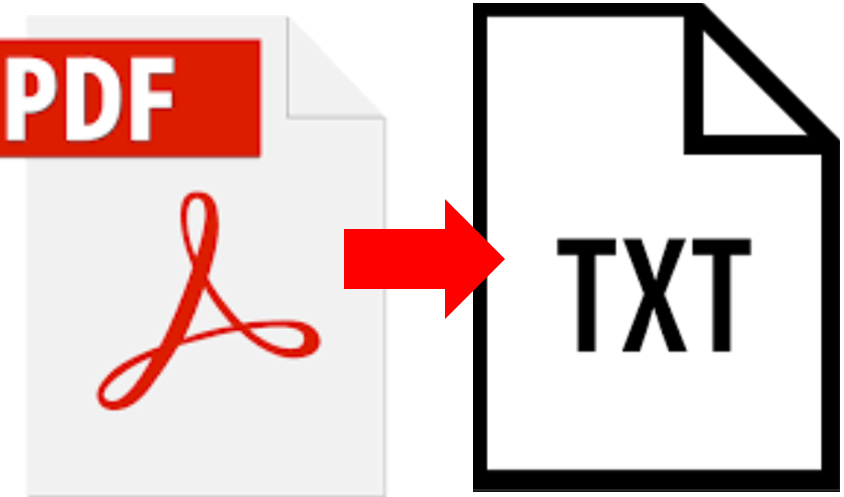
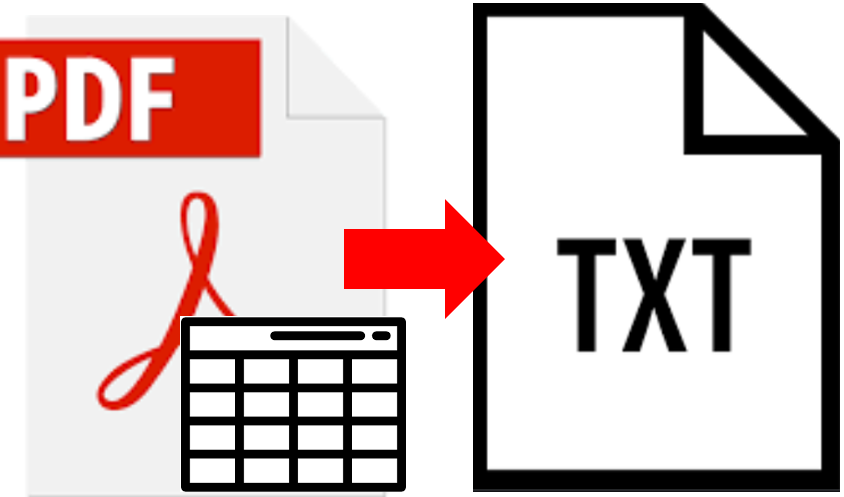
pdf2table commit

Changed region(s): [[0.2156, 0.6338, 0.4929, 0.996]]

diff --git a/argoslabs/pdf/pdf2table/__init__.py b/argoslabs/pdf/pdf2table/__init__.py
@@ -1,0 +1,140 @@
+#!/usr/bin/env python
+# coding=utf8
+"""
+====================================
+ :mod:`argoslabs.data.pdf2txt`
+====================================
+.. moduleauthor:: Kyobong An <akb0930e@argos-labs.com>
+.. note:: ARGOS-LABS License
+
+Description
+===========
+ARGOS LABS PDF Conversion(pdf -> txt) plugin
+"""
+# Authors
+# ===========
+#
+# * Kyobong An
+#
+# --------
+#
+#  * [2021/07/28]
+#     - starting
+
+################################################################################
+import os
+import sys
+import pdfplumber
+# import pandas
+from alabs.common.util.vvargs import ModuleContext, func_log, \
+    ArgsError, ArgsExit, get_icon_path
+
+
+################################################################################
+class TableError(Exception):
+    pass
+
+
+################################################################################
+@func_log
+def pdf2doc(mcxt, argspec):
+    mcxt.logger.info('>>>starting...')
+    if argspec.table:
+        pdffile = argspec.table
+    else:
+        pdffile = argspec.text
+    try:
+        text = str()
+        with pdfplumber.open(pdffile) as pdf, open(argspec.output, 'w') as txt:
+            pages = pdf.pages
+            if argspec.text:
+                for page in pages:
+                    text += page.extract_text()
+
+                txt.write(text)
+            else:
+                count = 0
+                for page in pages:
+                    tables = page.extract_tables(table_settings=
+                                                 {"vertical_strategy": argspec.vertical,
+                                                  "horizontal_strategy": argspec.horizontal,
+                                                  })
+                    for table in tables:
+                        for r_table in table:
+                            txt.write(',\t'.join(i if i else '' for i in r_table) + '\n')
+                            count += 1
+                            # print(','.join(r_table))
+                        txt.write('\n'*4)
+                if count == 0:
+                    msg = ('The table is not included in "%s"' % os.path.basename(argspec.table))
+                    raise TableError(msg)
+            pdf.close()
+            txt.close()
+
+        print(os.path.abspath(argspec.output), end='')
+        return 0
+    except TableError as err:
+        msg = str(err)
+        mcxt.logger.error(msg)
+        sys.stderr.write('%s%s' % (msg, os.linesep))
+        return 1
+    except Exception as err:
+        msg = str(err)
+        mcxt.logger.error(msg)
+        sys.stderr.write('%s%s' % (msg, os.linesep))
+        return 9
+    finally:
+        sys.stdout.flush()
+        mcxt.logger.info('>>>end...')
+
+
+################################################################################
+def _main(*args):
+    with ModuleContext(
+            owner='ARGOS-LABS',
+            group='2',
+            version='1.0',
+            platform=['windows', 'darwin', 'linux'],
+            output_type='text',
+            display_name='PDF2Table',
+            icon_path=get_icon_path(__file__),
+            description='Converting from pdf file to text file',
+    ) as mcxt:
+        # ##################################### for app dependent options
+        # ----------------------------------------------------------------------
+        mcxt.add_argument('--table',
+                          display_name='Table', show_default=True,
+                          input_method='fileread',
+                          input_group='radio=PDF File;default',
+                          help='Select a pdf file for table')
+        mcxt.add_argument('--text',
+                          display_name='Text', show_default=True,
+                          input_method='fileread',
+                          input_group='radio=PDF File',
+                          help='Select a pdf file for text')
+        mcxt.add_argument('--output', display_name='Output Filepath', show_default=True,
+                          input_method='filewrite',
+                          help='Specify an absolute file path to save the output')
+        mcxt.add_argument('--vertical',
+                          display_name='Vertical strategy', default="lines",
+                          choices=["lines", "lines_strict", "text", "explicit"],
+                          input_group='Table option',
+                          help='for more information refer to the help page')
+        mcxt.add_argument('--horizontal',
+                          display_name='Horizontal strategy', default="lines",
+                          choices=["lines", "lines_strict", "text", "explicit"],
+                          input_group='Table option',
+                          help='for more information refer to the help page')
+        argspec = mcxt.parse_args(args)
+        return pdf2doc(mcxt, argspec)
+        # ##################################### for app dependent parameters
+
+
+################################################################################
+def main(*args):
+    try:
+        return _main(*args)
+    except ArgsError as err:
+        sys.stderr.write('Error: %s\nPlease -h to print help\n' % str(err))
+    except ArgsExit as _:
+        pass

diff --git a/argoslabs/pdf/pdf2table/tests/test_me.py b/argoslabs/pdf/pdf2table/tests/test_me.py
@@ -2,9 +2,9 @@
 # coding=utf8
 """
 ====================================
- :mod:`argoslabs.data.pdf2txt`
+ :mod:`argoslabs.pdf.pdf2table`
 ====================================
-.. moduleauthor:: Irene Cho <irene@argos-labs.com>
+.. moduleauthor:: Kyobong An <akb0930@argos-labs.com>
 .. note:: ARGOS-LABS License
 
 Description
@@ -16,7 +16,7 @@ ARGOS LABS plugin module : unittest
 import os
 import sys
 from unittest import TestCase
-from argoslabs.data.pdf2txt import _main as main
+from argoslabs.pdf.pdf2table import _main as main
 from alabs.common.util.vvargs import ArgsError
 
 
@@ -38,19 +38,39 @@ class TU(TestCase):
             self.assertTrue(True)
 
     # ==========================================================================
-    def test0100_success(self):
+    def test0110_table(self):
         try:
-            r = main('test.pdf')
+            r = main('--table', 'June 2021 Invoice.pdf', '--output', 'June 2021 Invoice_table.txt')
             self.assertTrue(r == 0)
         except ArgsError as e:
             sys.stderr.write('\n%s\n' % str(e))
             self.assertTrue(False)
 
     # ==========================================================================
-    def test0110_success(self):
+    def test0120_text(self):
         try:
-            r = main('claimtech.pdf', '--output', 'claimtech-pdf2txt.txt')
+            r = main('--text', 'June 2021 Invoice.pdf', '--output', 'June 2021 Invoice_text.txt')
             self.assertTrue(r == 0)
+        except ArgsError as e:
+            sys.stderr.write('\n%s\n' % str(e))
+            self.assertTrue(False)
+
+    # ==========================================================================
+    def test0120_None_table(self):
+        try:
+            r = main('--table', 'Inv_11390_from_KOTRA_Silico_new.pdf',
+                     '--output', 'inv.txt')
+            self.assertTrue(r == 0)
+        except ArgsError as e:
+            sys.stderr.write('\n%s\n' % str(e))
+            self.assertTrue(False)
+
+    # ==========================================================================
+    def test0130_PDF_not_table(self):
+        try:
+            r = main('--table', '18.PDF',
+                     '--output', 'inv.txt')
+            self.assertTrue(r == 1)
         except ArgsError as e:
             sys.stderr.write('\n%s\n' % str(e))
             self.assertTrue(False)

diff --git a/argoslabs/pdf/pdf2table/__main__.py b/argoslabs/pdf/pdf2table/__main__.py
@@ -1,19 +1,19 @@
 """
 ====================================
- :mod:`argoslabs.data.pdf2txt`
+ :mod:`argoslabs.pdf.pdf2table`
 ====================================
-.. moduleauthor:: Irene Cho <irenee@argos-labs.com>
+.. moduleauthor:: Kyobong An <akb0930@argos-labs.com>
 .. note:: ARGOS-LABS License
 
 Description
 ===========
-ARGOS LABS PDF Conversion(pdf -> txt) plugin
+ARGOS LABS PDF Conversion(pdf -> table,txt) plugin
 """
 
 ################################################################################
 import sys
 from alabs.common.util.vvargs import ArgsError, ArgsExit
-from argoslabs.data.pdf2txt import main
+from argoslabs.pdf.pdf2table import main
 
 
 ################################################################################

diff --git a/argoslabs/pdf/pdf2table/README.md b/argoslabs/pdf/pdf2table/README.md
@@ -1,3 +1,3 @@
-# argoslabs.data.pdf2doc
+# argoslabs.pdf.pdf2table
 
-This argos plugin module converts pdf file to doc format of file.
+This argos plugin module converts pdf file to text format of file.
